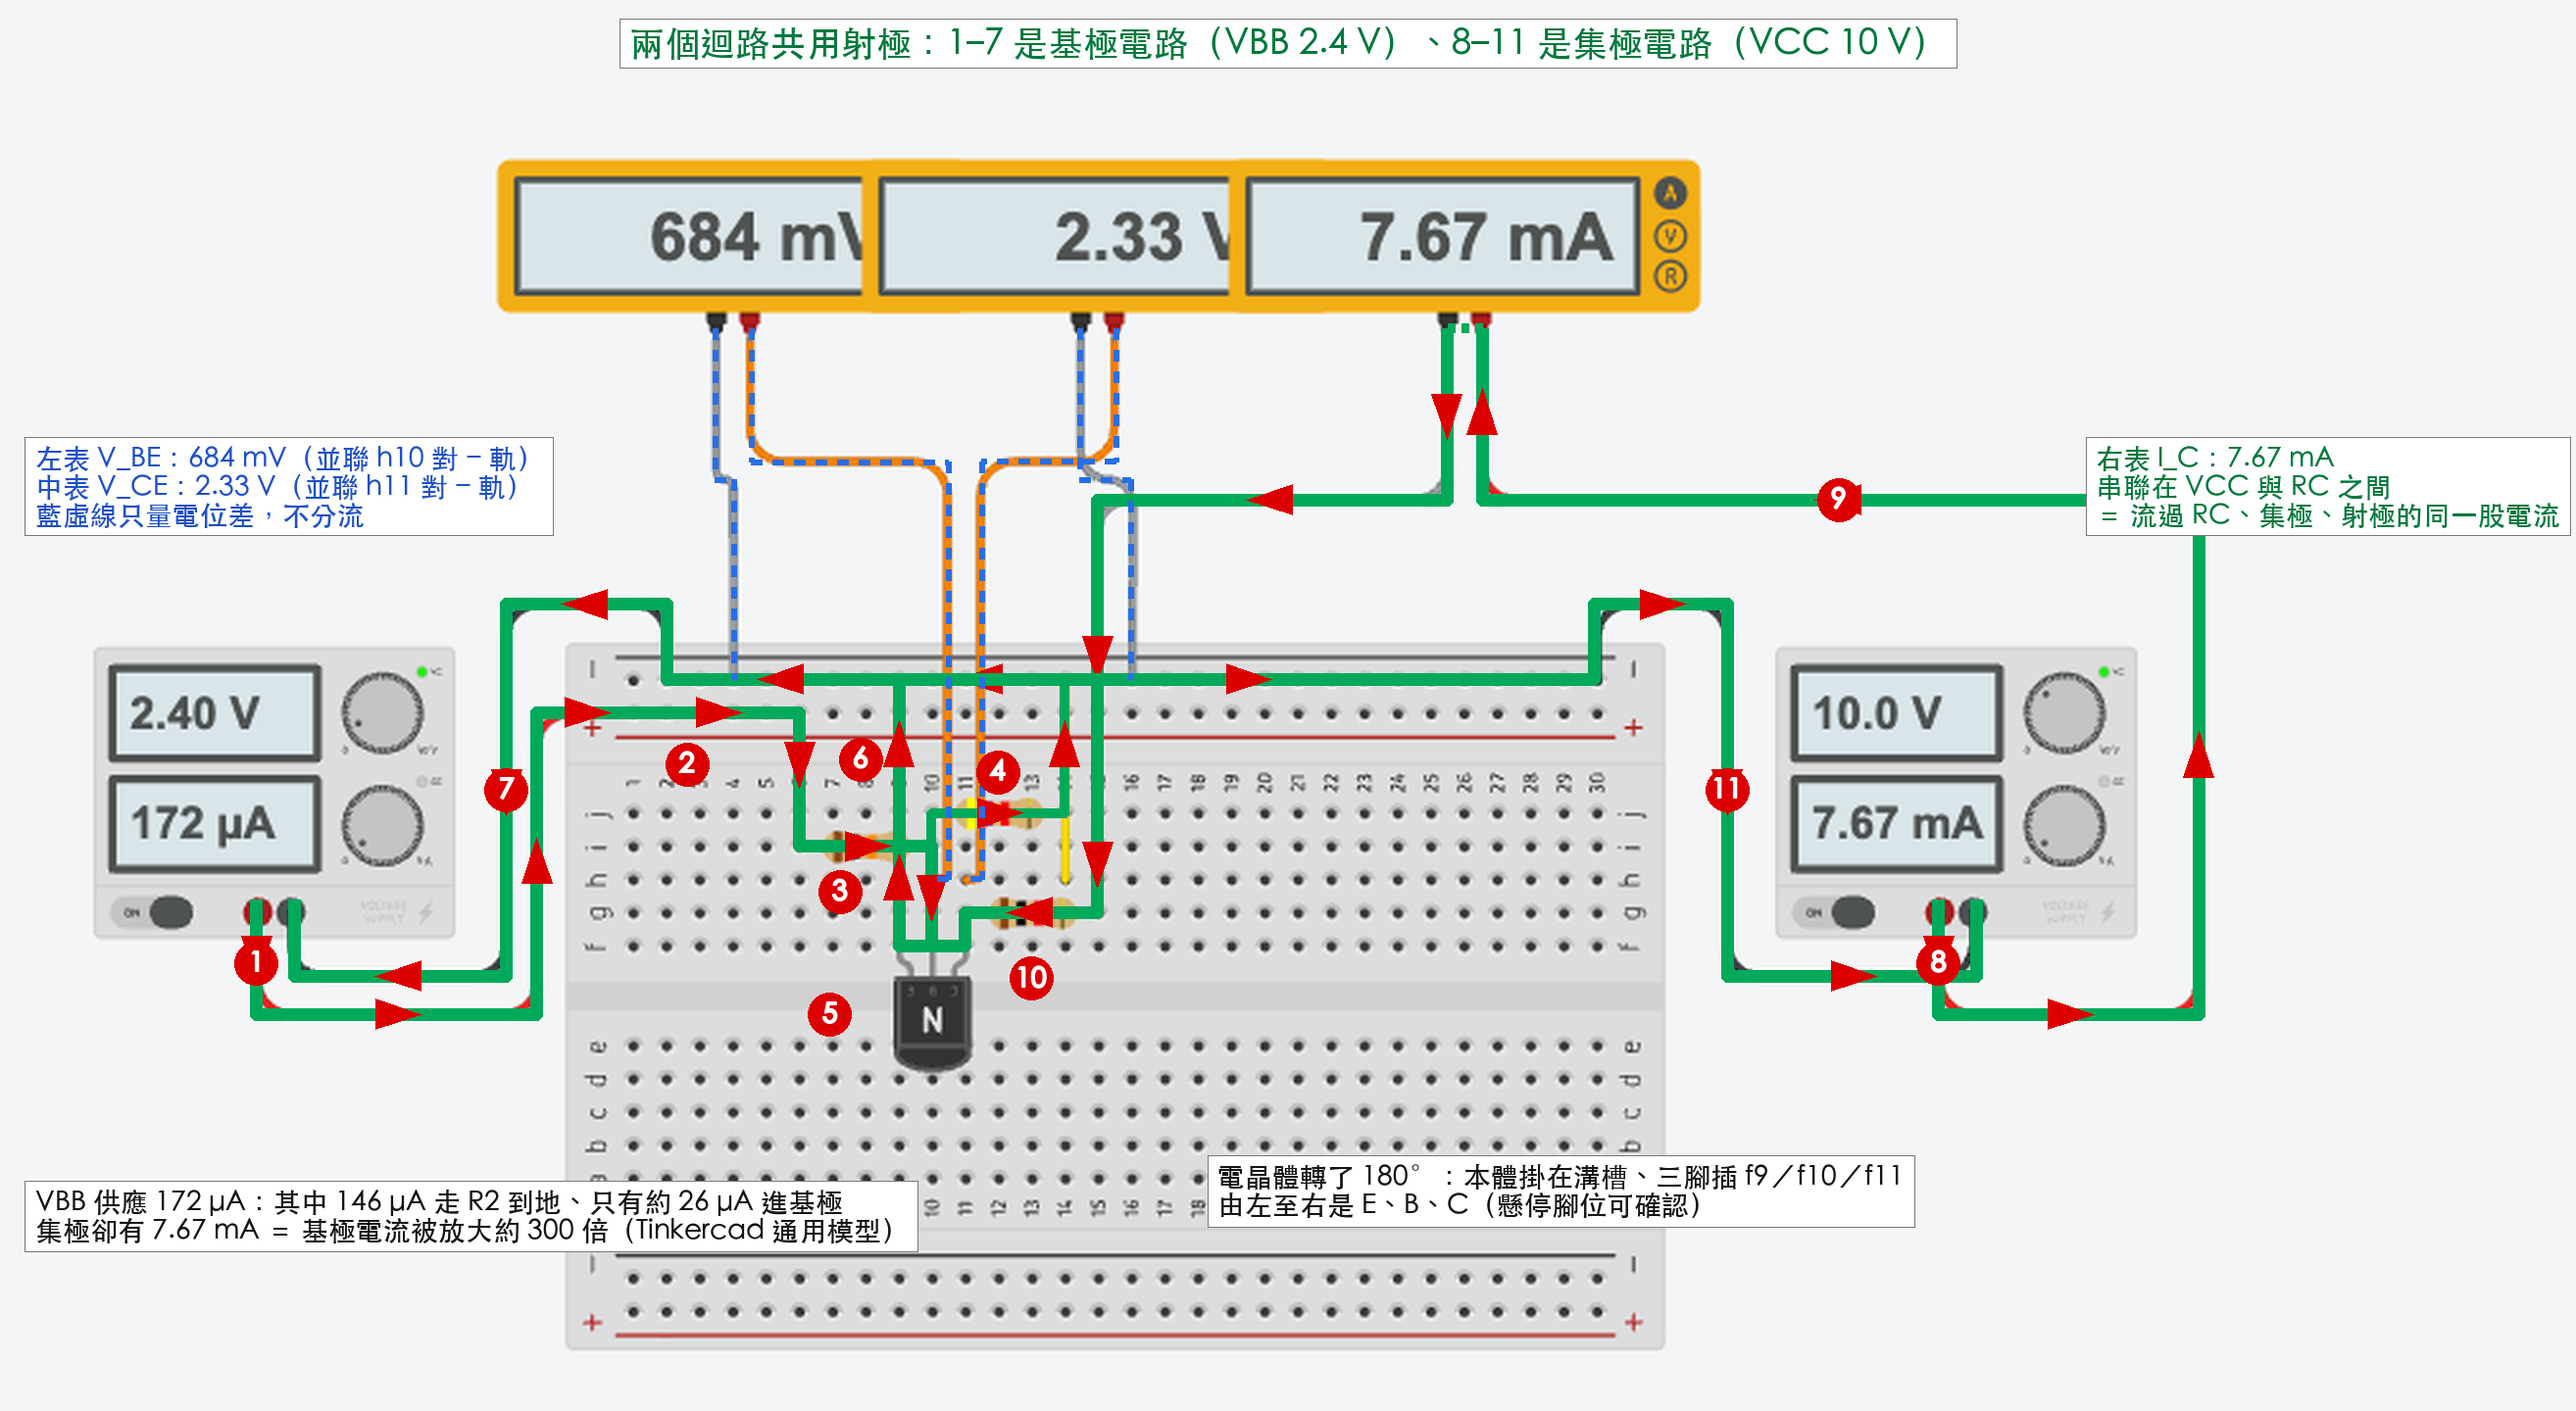
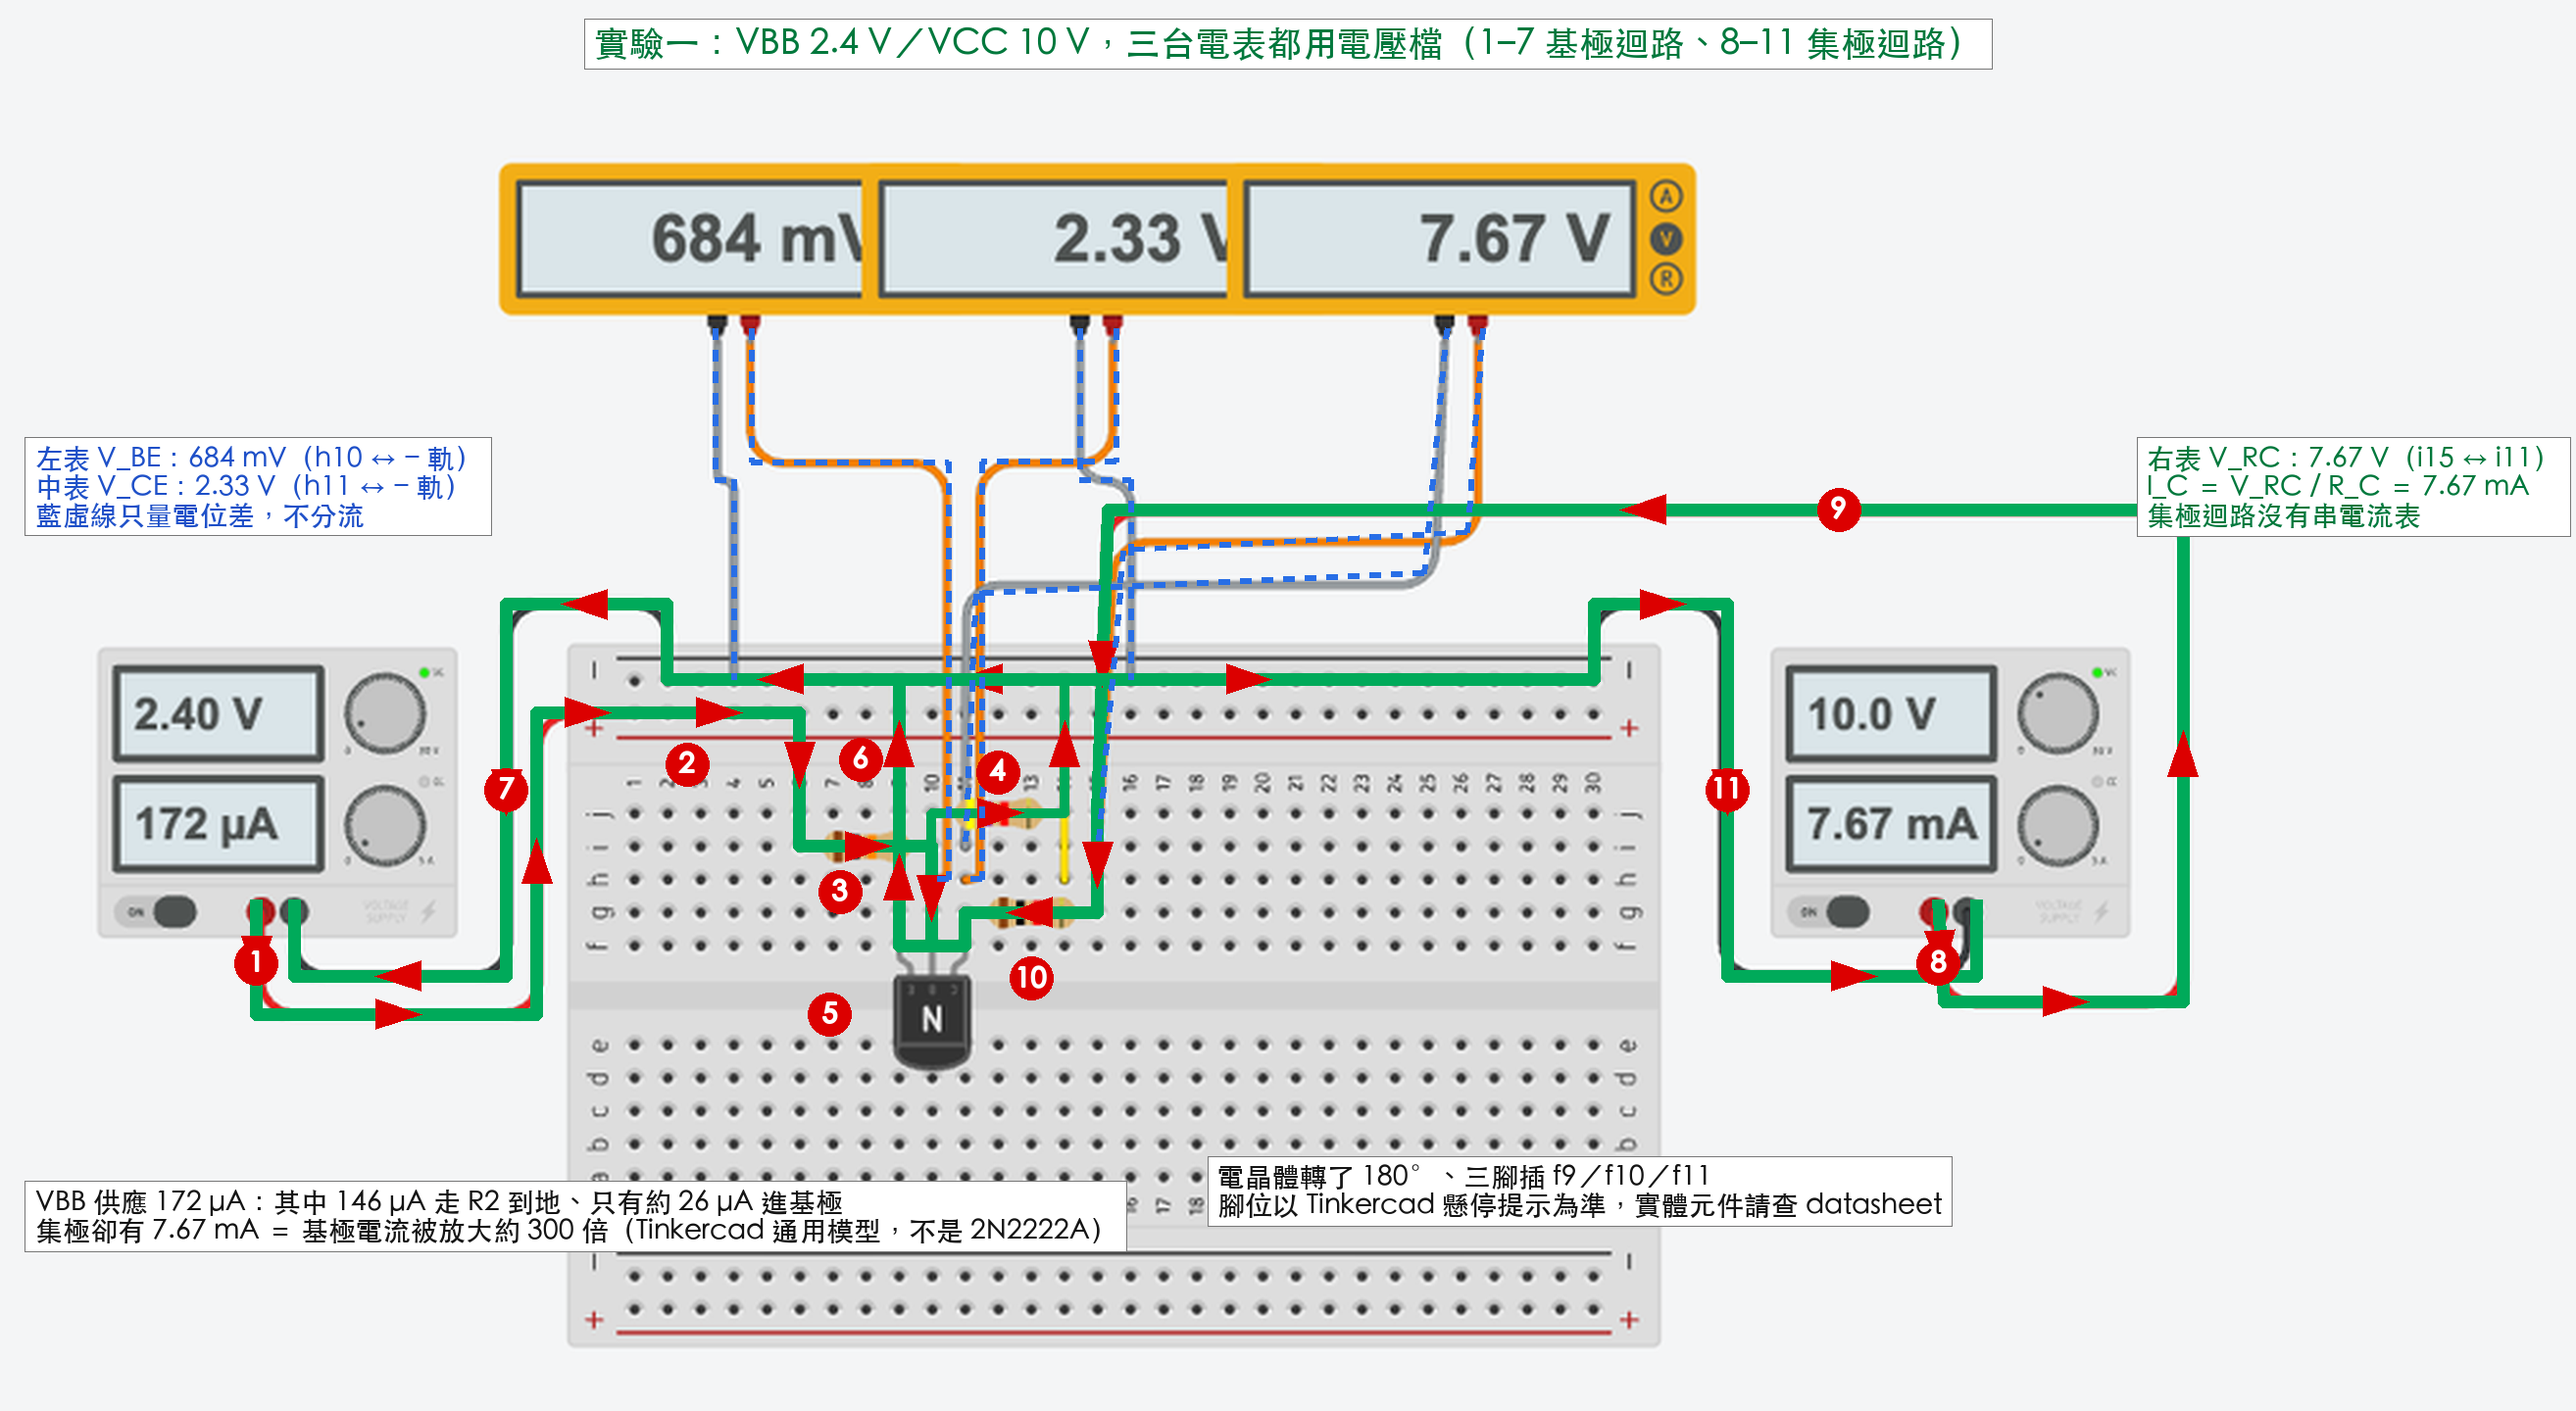
fix(lab2): 實驗一改成電壓檔量 V_RC，筆記與兩張圖同步 Tinkercad 的實際接法
實驗一的第三台表原本是電流檔、串在集極支路，和講義第 8 頁「I_C 由 R_C 壓降
換算」的要求不符。Tinkercad 設計已改成電源 B 正端直接接 j15、第三台表轉
DC 電壓檔並聯在 R_C 兩端（i15 ↔ i11），這一筆把筆記與圖補齊。

- **調整** 實驗一接線配方表：拿掉串聯電流表的三個步驟，改為電源 B 正端 → j15 與電表 3 跨 i15／i11；儀器設定表的電表 3 改電壓檔
- **重截** lab2-exp1-breadboard.png（三台表讀 684 mV／2.33 V／7.67 V），並重產電流分析圖
- **重構** annotate_current_path.py：兩個實驗的集極迴路統一為不經電流表的 LOOP_B，painter 改收 probes 參數，實驗一新增 V_RC 量測線
- **調整** 電流分析表第 8、9 列與「三台電表各量什麼」段落；實驗二的對照表改成只列量測點差異
- **新增** 實驗三的二分排查結果：過流元凶是函數波產生器（移除後回到 12.0 V／5.83 mA），示波器無關；補上漏掉的 e7 → g10 跳線說明與 DC Check 設計連結
- **新增** 電晶體腳位警語：Tinkercad 是通用 NPN，實體 2N2222A／PN2222A 腳位請查 datasheet
- **新增** 實驗二為何沒有第四台表、以及改用表 3 紅棒暫移到集極量 V_CE 的做法

Claude-Session: https://claude.ai/code/session_01Gp7vbwdfk3wAQVMChLcyoW

diff --git a/simulations/lab2/annotate_current_path.py b/simulations/lab2/annotate_current_path.py
@@ -63,10 +63,11 @@ BRANCH_R2 = [
     (colx(14), RAIL_MINUS),                                            # 跳線 h14 → − 軌（經過 j14 孔）
     (colx(9), RAIL_MINUS),
 ]
-# ---- 迴路 B：集極電路 VCC(+) → 電流表 → RC → 集極 → 射極 → − 軌 → VCC(−) ----
-LOOP_B1 = [VCC_P, (753, 352), (855, 352), (855, 150), (574, 150), A_RED]
-LOOP_B2 = [
-    A_BLK, (560, 150), (colx(15), 150), (colx(15), ROW["j"]), (colx(15), ROW["g"]),
+# ---- 迴路 B：集極電路 VCC(+) → j15 → RC → 集極 → 射極 → − 軌 → VCC(−) ----
+# 2026-10-20：兩個實驗的第三台表都已改成電壓檔並聯，集極迴路不再串電流表。
+LOOP_B = [
+    VCC_P, (755, 347), (849, 347), (849, 154), (427, 154),
+    (colx(15), ROW["j"]), (colx(15), ROW["g"]),
     (colx(11), ROW["g"]),                                  # RC：g15 → g11（集極節點）
     (colx(11), ROW["f"]),                                  # 集極腳 f11
     (colx(9), ROW["f"]),                                   # 電晶體內部：集極 → 射極 f9
@@ -78,51 +79,36 @@ V1_PATH_R = [V1_RED, (287, 135), (364.5, 135), (364.5, ROW["h"]), (colx(10), ROW
 V1_PATH_B = [V1_BLK, (273, 142), (280, 142), (280, RAIL_MINUS)]
 V2_PATH_R = [V2_RED, (430, 135), (377.5, 135), (377.5, ROW["h"]), (colx(11), ROW["h"])]
 V2_PATH_B = [V2_BLK, (416, 142), (436, 142), (436, RAIL_MINUS)]
+# 實驗一的第三台表：V_RC（i15 ↔ i11），折點取自 Tinkercad 實際走線
+E1_M3_R = [A_RED, (568, 163), (433, 170), (colx(15), ROW["i"])]
+E1_M3_B = [A_BLK, (551, 179), (375, 187), (colx(11), ROW["i"])]
+E1_PROBES = (V1_PATH_R, V1_PATH_B, V2_PATH_R, V2_PATH_B, E1_M3_R, E1_M3_B)
 
 BADGES = [
     ("1", (93, 332)), ("2", (262, 254)), ("3", (322, 304)), ("4", (384, 257)),
     ("5", (318, 352)), ("6", (330, 252)), ("7", (191, 264)),
-    ("8", (753, 332)), ("9", (714, 150)), ("10", (397, 338)), ("11", (670, 264)),
+    ("8", (753, 332)), ("9", (714, 154)), ("10", (397, 338)), ("11", (670, 264)),
 ]
-# 實驗二拿掉電流表之後，9 號落在新的 VCC 走線上（y 從 150 改成 154）
-BADGES_E2 = [(t, (714, 154) if t == "9" else pt) for t, pt in BADGES]
-
-# ---- 實驗二：集極迴路不經電流表，電源 B 正端直接接 j15 ----
-LOOP_B_E2 = [
-    VCC_P, (755, 347), (849, 347), (849, 154), (427, 154),
-    (colx(15), ROW["j"]), (colx(15), ROW["g"]),
-    (colx(11), ROW["g"]),                                  # RC：g15 → g11（集極節點）
-    (colx(11), ROW["f"]),                                  # 集極腳 f11
-    (colx(9), ROW["f"]),                                   # 電晶體內部：集極 → 射極 f9
-    (colx(9), ROW["j"]), (colx(9), RAIL_MINUS),
-    (colx(30), RAIL_MINUS), (618, 191), (670, 191), (670, 337), (768, 337), VCC_N,
-]
-# 實驗二的三台電壓表：V_R1（+ 軌 ↔ h10）、V_R2 ＝ V_BE（g10 ↔ − 軌）、V_RC（i15 ↔ h11）
+# ---- 實驗二的三台電壓表：V_R1（+ 軌 ↔ h10）、V_R2 ＝ V_BE（g10 ↔ − 軌）、V_RC（i15 ↔ h11）
 E2_M1_R = [V1_RED, (287, 183), (colx(3), 183), (colx(3), RAIL_PLUS)]
 E2_M1_B = [V1_BLK, (279, 197), (363, 197), (colx(10), ROW["h"])]
 E2_M2_R = [V2_RED, (426, 174), (352, 174), (colx(10), ROW["g"])]
 E2_M2_B = [V2_BLK, (419, 139), (433, 145), (colx(16), RAIL_MINUS)]
 E2_M3_R = [A_RED, (576, 166), (430, 166), (colx(15), ROW["i"])]
 E2_M3_B = [A_BLK, (555, 183), (colx(11), 183), (colx(11), ROW["h"])]
+E2_PROBES = (E2_M1_R, E2_M1_B, E2_M2_R, E2_M2_B, E2_M3_R, E2_M3_B)
 
 
-def painter_factory(title, left_note, right_note, mid_note, bottom_note, exp2=False):
+def painter_factory(title, left_note, right_note, mid_note, bottom_note, probes):
     def paint(canvas, d, T):
         big, small, num = f(36), f(28), f(28)
         W = canvas.size[0]
         path(d, [T(p) for p in LOOP_A])
         path(d, [T(p) for p in BRANCH_R2], w=10)
-        if exp2:
-            path(d, [T(p) for p in LOOP_B_E2])
-            probes = (E2_M1_R, E2_M1_B, E2_M2_R, E2_M2_B, E2_M3_R, E2_M3_B)
-        else:
-            path(d, [T(p) for p in LOOP_B1])
-            path(d, [T(p) for p in LOOP_B2])
-            path(d, [T(A_RED), T(A_BLK)], dash=True, w=10, period=14, arrows=False)  # 電流表內部
-            probes = (V1_PATH_R, V1_PATH_B, V2_PATH_R, V2_PATH_B)
+        path(d, [T(p) for p in LOOP_B])
         for pts in probes:
             path(d, [T(p) for p in pts], col=BLUE, w=6, dash=True, period=22, arrows=False)
-        for t, p in (BADGES_E2 if exp2 else BADGES):
+        for t, p in BADGES:
             badge(d, T(p), t, num)
         label(d, (W // 2, 26), title, big, GREEN_TXT, align="center")
         label(d, T((6, 128)), left_note, small, BLUE_TXT)
@@ -137,11 +123,12 @@ def main():
         os.path.join(IMG_DIR, "lab2-exp1-breadboard.png"),
         os.path.join(IMG_DIR, "lab2-exp1-breadboard-current.png"),
         painter_factory(
-            "兩個迴路共用射極：1–7 是基極電路（VBB 2.4 V）、8–11 是集極電路（VCC 10 V）",
-            "左表 V_BE：684 mV（並聯 h10 對 − 軌）\n中表 V_CE：2.33 V（並聯 h11 對 − 軌）\n藍虛線只量電位差，不分流",
-            "右表 I_C：7.67 mA\n串聯在 VCC 與 RC 之間\n＝ 流過 RC、集極、射極的同一股電流",
-            "電晶體轉了 180°：本體掛在溝槽、三腳插 f9／f10／f11\n由左至右是 E、B、C（懸停腳位可確認）",
-            "VBB 供應 172 µA：其中 146 µA 走 R2 到地、只有約 26 µA 進基極\n集極卻有 7.67 mA ＝ 基極電流被放大約 300 倍（Tinkercad 通用模型）",
+            "實驗一：VBB 2.4 V／VCC 10 V，三台電表都用電壓檔（1–7 基極迴路、8–11 集極迴路）",
+            "左表 V_BE：684 mV（h10 ↔ − 軌）\n中表 V_CE：2.33 V（h11 ↔ − 軌）\n藍虛線只量電位差，不分流",
+            "右表 V_RC：7.67 V（i15 ↔ i11）\nI_C ＝ V_RC / R_C ＝ 7.67 mA\n集極迴路沒有串電流表",
+            "電晶體轉了 180°、三腳插 f9／f10／f11\n腳位以 Tinkercad 懸停提示為準，實體元件請查 datasheet",
+            "VBB 供應 172 µA：其中 146 µA 走 R2 到地、只有約 26 µA 進基極\n集極卻有 7.67 mA ＝ 基極電流被放大約 300 倍（Tinkercad 通用模型，不是 2N2222A）",
+            E1_PROBES,
         ),
         scale=SCALE, pad=PAD,
     )
@@ -154,7 +141,7 @@ def main():
             "右表 V_RC：15.0 V（i15 ↔ h11）\nI_C ＝ V_RC / R_C ＝ 15.0 mA\n集極迴路沒有電流表",
             "I_B ＝ V_R1/R1 − V_R2/R2\n＝ 1.43 mA − 0.152 mA ≈ 1.28 mA",
             "β_forced ＝ I_C / I_B ＝ 15.0 / 1.28 ≈ 11.7，遠小於正常 β\n→ 這就是講義問題 1 的答案：Table 2 的工作點在飽和區",
-            exp2=True,
+            E2_PROBES,
         ),
         scale=SCALE, pad=PAD,
     )
